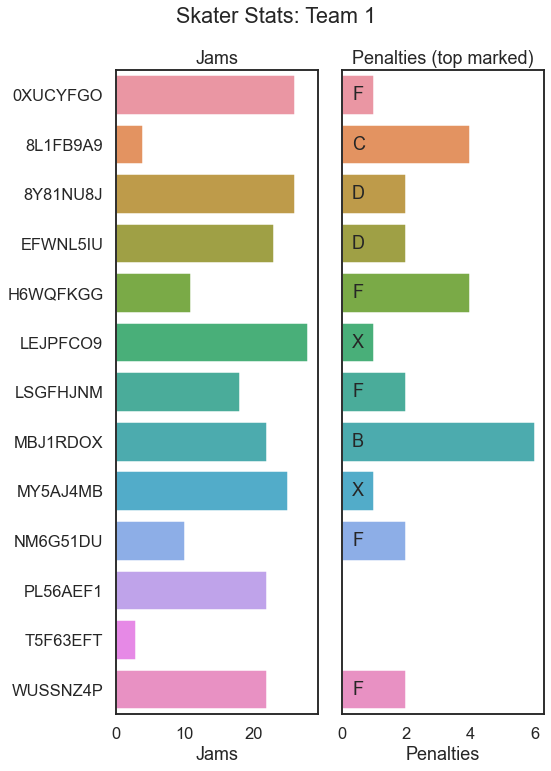
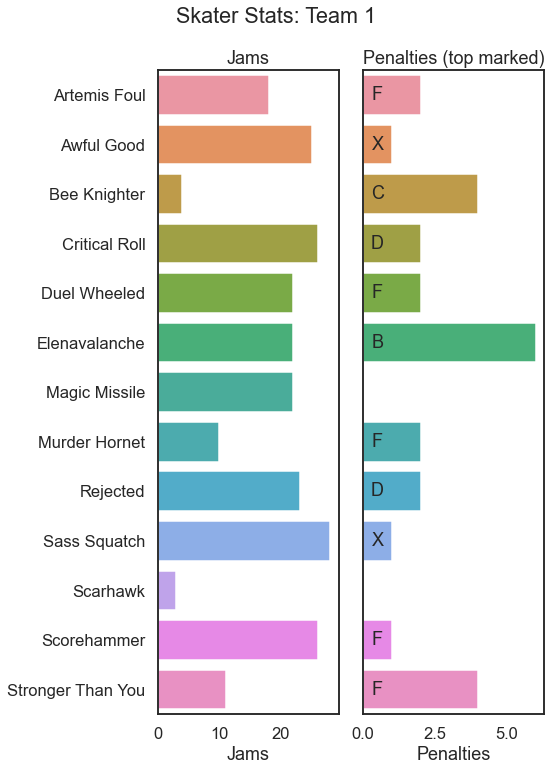
added fun anonymized derby names

Changed region(s): [[0.0, 0.0623, 0.9873, 0.9961], [0.8947, 0.9339, 0.9873, 0.965]]

diff --git a/src/jamstats/plots/skaterplots.py b/src/jamstats/plots/skaterplots.py
@@ -160,21 +160,88 @@ def plot_skater_stats(derby_game: DerbyGame, team_number: int,
     return f
 
 
-def build_anonymizer_map(names: Iterable[str],
-                         anonymized_len = 8) -> Dict[str, str]:
-    """Build a dictionary from unique passed-in names to randomly constructed names
+def build_anonymizer_map(names: Iterable[str]) -> Dict[str, str]:
+    """Build a dictionary from unique passed-in names to randomly selected
+    anonymized skater names.
+
+    Will fail if you ask for more names than the list contains (about 60)
 
     Args:
         names (Iterable[str]): input names
-        anonymized_len (int, optional): length of anon names. Defaults to 8.
 
     Returns:
         Dict[str, str]: map from input names to anonymized names
     """
-    names_set = set(names)
-    anonymizer_dict = dict()
-    for name in names_set:
-        anonymizer_dict[name] = ''.join(
-            random.choices(string.ascii_uppercase + string.digits,
-                           k=anonymized_len))
-    return anonymizer_dict
+    # just in case the names aren't unique
+    names_set_list = list(set(names))
+    anonymized_names = random.sample(ANONYMIZED_SKATER_NAMES, len(names_set_list))
+    return {
+        names_set_list[i]: anonymized_names[i]
+        for i in range(len(names_set_list))
+    }
+
+
+ANONYMIZED_SKATER_NAMES = [
+    "Middle Skull Crush",
+    "Magic Missile",
+    "Caffiend",
+    "Artemis Foul",
+    "Madame Fury",
+    "Rejected",
+    "Elena Traffic",
+    "Fate Skar",
+    "Bee Knighter",
+    "Hate Skar'd",
+    "Clever Bruise",
+    "Sudden Beth",
+    "Nasty, Brutish and Me",
+    "Penalty Fox",
+    "Mike Wheeler",
+    "Foe Stops",
+    "Foul Doubt",
+    "Scarlight Express",
+    "Stang 'Er Things",
+    "Strangler Things",
+    "Tragic Missile",
+    "Skate of Shock",
+    "Murder Hornet",
+    "Max May-wheeled",
+    "Boba Teen",
+    "Superscar",
+    "Elenavalanche",
+    "Scar the Grouch",
+    "Scar Wylde",
+    "Rebel Girl",
+    "Scarhawk",
+    "Sass Squatch",
+    "Stronger Than You",
+    "Scartillery",
+    "Bad Assassin",
+    "Sassassin",
+    "Ambulance",
+    "Global Harming",
+    "Seabattle",
+    "Cascade Deranged",
+    "Columbia Shiv 'Er",
+    "Scarstruck",
+    "Sneak Attrack",
+    "Duel Wheeled",
+    "Awful Good",
+    "Broad Sword",
+    "Roll for Damage",
+    "Nat Twenty",
+    "Scorehammer",
+    "Javelin",
+    "Unarmed Strike",
+    "Morning Scar",
+    "Critical Roll",
+    "Shortsword",
+    "Chaos Muppet",
+    "Scartemis",
+    "Kestrel",
+    "No Regrette",
+    "The Sparkly Cloud Killer",
+    "Ada Hatelace",
+    "Wheela Monster",
+    "Poison Dart Frog",
+]

diff --git a/setup.py b/setup.py
@@ -2,7 +2,7 @@ from setuptools import setup, find_packages
 
 setup(
     name='jamstats',
-    version='0.1.3',
+    version='0.1.4',
     description='Data processing, stats and plots on roller derby scoreboard JSON files',
     author='Damon May',
     package_dir={"":"src"},
